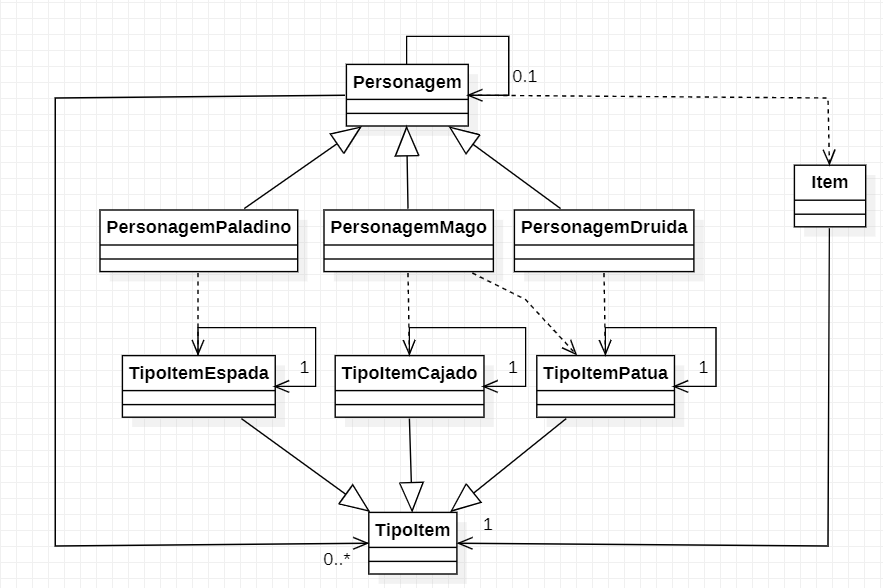
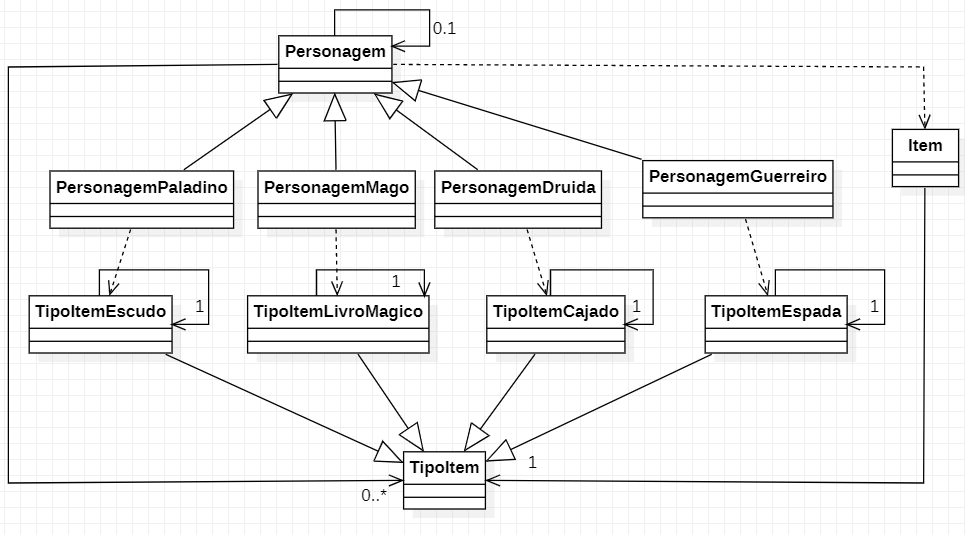
2
atualizacoes

diff --git a/src/test/java/ItemTest.java b/src/test/java/ItemTest.java
@@ -12,71 +12,96 @@ public class ItemTest {
     @BeforeEach
     void setUp() {
         druida = new PersonagemDruida(null);
-        guerreiro = new PersonagemGuerreiro(paladino);
         mago = new PersonagemMago(druida);
-        paladino = new PesonagemPaladino(guerreiro);
+        paladino = new PesonagemPaladino(mago);
+        guerreiro = new PersonagemGuerreiro(paladino);
     }
 
+    // Paladino
     @Test
-    void paladinoNeedEspada() {
-        assertEquals("Você pode pedir esse tipo de item",
-                paladino.needItem(new Item(TipoItemEspada.getTipoItemEspada())));
+    void paladinoEquiparEscudo(){
+        assertEquals("Paladino equipou o item: Escudo",
+            paladino.equiparItem(new Item(TipoItemEscudo.getTipoItemEscudo())));
     }
     @Test
-    void paladinoNeedCajado(){
-        assertEquals("Você não pode pedir esse tipo de item",
-                paladino.needItem(new Item(TipoItemCajado.getTipoItemCajado())));
+    void paladinoEquiparCajado(){
+        assertEquals("Druida equipou o item: Cajado",
+                paladino.equiparItem(new Item(TipoItemCajado.getTipoItemCajado())));
     }
     @Test
-    void paladinoNeedPatua(){
-        assertEquals("Você não pode pedir esse tipo de item",
-                paladino.needItem(new Item(TipoItemPatua.getTipoItemPatua())));
+    void paladinoEquiparLivroMagico(){
+        assertEquals("Mago equipou o item: Livro de magia",
+                paladino.equiparItem(new Item(TipoItemLivroMagico.getTipoItemLivroMagico())));
     }
     @Test
-    void guerreiroNeedEspada(){
-        assertEquals("Você pode pedir esse tipo de item",
-                guerreiro.needItem(new Item(TipoItemEspada.getTipoItemEspada())));
-    }
-    @Test
-    void guerreiroNeedCajado(){
-        assertEquals("Você não pode pedir esse tipo de item",
-                guerreiro.needItem(new Item(TipoItemCajado.getTipoItemCajado())));
-    }
-    @Test
-    void guerreiroNeedPatua(){
-        assertEquals("Você não pode pedir esse tipo de item",
-                guerreiro.needItem(new Item(TipoItemPatua.getTipoItemPatua())));
+    void paladinoEquiparEspada() {
+        assertEquals("Você não pode equipar esse tipo de item",
+                paladino.equiparItem(new Item(TipoItemEspada.getTipoItemEspada())));
     }
 
+    // Guerreiro
     @Test
-    void druidaNeedEspada(){
-        assertEquals("Você não pode pedir esse tipo de item",
-                druida.needItem(new Item(TipoItemEspada.getTipoItemEspada())));
+    void guerreiroEquiparEspada(){
+        assertEquals("Guerreiro equipou o item: Espada",
+                guerreiro.equiparItem(new Item(TipoItemEspada.getTipoItemEspada())));
     }
     @Test
-    void druidaNeedCajado(){
-        assertEquals("Você não pode pedir esse tipo de item",
-                druida.needItem(new Item(TipoItemCajado.getTipoItemCajado())));
+    void guerreiroEquiparCajado(){
+        assertEquals("Druida equipou o item: Cajado",
+                guerreiro.equiparItem(new Item(TipoItemCajado.getTipoItemCajado())));
     }
     @Test
-    void druidaNeedPatua(){
-        assertEquals("Você pode pedir esse tipo de item",
-                druida.needItem(new Item(TipoItemPatua.getTipoItemPatua())));
+    void guerreiroEquiparLivroMagico(){
+        assertEquals("Mago equipou o item: Livro de magia",
+                guerreiro.equiparItem(new Item(TipoItemLivroMagico.getTipoItemLivroMagico())));
     }
     @Test
-    void magoNeedEspada(){
-        assertEquals("Você não pode pedir esse tipo de item",
-                mago.needItem(new Item(TipoItemEspada.getTipoItemEspada())));
-    }
-    @Test
-    void magoNeedPatua(){
-        assertEquals("Você pode pedir esse tipo de item",
-                mago.needItem(new Item(TipoItemPatua.getTipoItemPatua())));
-    }
-    @Test
-    void magoNeedCajado(){
-        assertEquals("Você pode pedir esse tipo de item",
-                mago.needItem(new Item(TipoItemCajado.getTipoItemCajado())));
+    void guerreiroEquiparEscudo(){
+        assertEquals("Paladino equipou o item: Escudo",
+                guerreiro.equiparItem(new Item(TipoItemEscudo.getTipoItemEscudo())));
     }
 
+    // Druida
+    @Test
+    void druidaEquiparCajado(){
+        assertEquals("Druida equipou o item: Cajado",
+                druida.equiparItem(new Item(TipoItemCajado.getTipoItemCajado())));
+    }
+    @Test
+    void druidaEquiparEspada(){
+        assertEquals("Você não pode equipar esse tipo de item",
+                druida.equiparItem(new Item(TipoItemEspada.getTipoItemEspada())));
+    }
+    @Test
+    void druidaEquiparLivroMagico(){
+        assertEquals("Você não pode equipar esse tipo de item",
+                druida.equiparItem(new Item(TipoItemLivroMagico.getTipoItemLivroMagico())));
+    }
+    @Test
+    void druidaEquiparEscudo(){
+        assertEquals("Você não pode equipar esse tipo de item",
+                druida.equiparItem(new Item(TipoItemEscudo.getTipoItemEscudo())));
+    }
+
+    // Mago
+    @Test
+    void magoEquiparLivroMagico(){
+        assertEquals("Mago equipou o item: Livro de magia",
+                mago.equiparItem(new Item(TipoItemLivroMagico.getTipoItemLivroMagico())));
+    }
+    @Test
+    void magoEquiparCajado(){
+        assertEquals("Druida equipou o item: Cajado",
+                mago.equiparItem(new Item(TipoItemCajado.getTipoItemCajado())));
+    }
+    @Test
+    void magoEquiparEspada(){
+        assertEquals("Você não pode equipar esse tipo de item",
+                mago.equiparItem(new Item(TipoItemEspada.getTipoItemEspada())));
+    }
+    @Test
+    void magoEquiparEscudo(){
+        assertEquals("Você não pode equipar esse tipo de item",
+                druida.equiparItem(new Item(TipoItemEscudo.getTipoItemEscudo())));
+    }
 }

diff --git a/src/main/java/Personagem.java b/src/main/java/Personagem.java
@@ -12,18 +12,18 @@ public abstract class Personagem {
         this.lider = lider;
     }
 
-    public abstract String getDescricaoClasse();
+    public abstract String getMensagem(Item item);
 
-    public String needItem(Item item){
+    public String equiparItem(Item item){
         if (listaItens.contains(item.getTipoItem())){
-            return getDescricaoClasse();
+            return getMensagem(item);
         }
         else {
             if (lider != null){
-                return lider.needItem(item);
+                return lider.equiparItem(item);
             }
             else {
-                return "Você não pode pedir esse tipo de item";
+                return "Você não pode equipar esse tipo de item";
             }
         }
     }

diff --git a/src/main/java/PersonagemMago.java b/src/main/java/PersonagemMago.java
@@ -1,10 +1,10 @@
 public class PersonagemMago extends Personagem{
     public PersonagemMago(Personagem lider){
-        listaItens.add(TipoItemCajado.getTipoItemCajado());
+        listaItens.add(TipoItemLivroMagico.getTipoItemLivroMagico());
         setPersonagemLider(lider);
 
     }
-    public String getDescricaoClasse(){
-        return "Você pode pedir esse tipo de item";
+    public String getMensagem(Item item){
+        return "Mago equipou o item: " + item.getTipoItem();
     }
 }

diff --git a/src/main/java/PesonagemPaladino.java b/src/main/java/PesonagemPaladino.java
@@ -1,9 +1,9 @@
 public class PesonagemPaladino extends Personagem{
     public PesonagemPaladino (Personagem lider){
-        listaItens.add(TipoItemEspada.getTipoItemEspada());
+        listaItens.add(TipoItemEscudo.getTipoItemEscudo());
         setPersonagemLider(lider);
     }
-    public String getDescricaoClasse(){
-        return "Você pode pedir esse tipo de item";
+    public String getMensagem(Item item){
+        return "Paladino equipou o item: " + item.getTipoItem();
     }
 }

diff --git a/src/main/java/PersonagemDruida.java b/src/main/java/PersonagemDruida.java
@@ -1,9 +1,9 @@
 public class PersonagemDruida extends Personagem{
     public PersonagemDruida(Personagem lider){
-        listaItens.add(TipoItemPatua.getTipoItemPatua());
+        listaItens.add(TipoItemCajado.getTipoItemCajado());
         setPersonagemLider(lider);
     }
-    public String getDescricaoClasse(){
-        return "Você pode pedir esse tipo de item";
+    public String getMensagem(Item item){
+        return "Druida equipou o item: " + item.getTipoItem();
     }
 }

diff --git a/src/main/java/TipoItemLivroMagico.java b/src/main/java/TipoItemLivroMagico.java
@@ -1,0 +1,12 @@
+public class TipoItemLivroMagico implements TipoItem{
+    private static TipoItemLivroMagico tipoItemLivroMagico = new TipoItemLivroMagico();
+    private TipoItemLivroMagico(){};
+    public static TipoItemLivroMagico getTipoItemLivroMagico(){
+        return tipoItemLivroMagico;
+    }
+
+    @Override
+    public String toString() {
+        return "Livro de magia";
+    }
+}

diff --git a/src/main/java/TipoItemEscudo.java b/src/main/java/TipoItemEscudo.java
@@ -1,0 +1,14 @@
+public class TipoItemEscudo implements TipoItem{
+    private static TipoItemEscudo tipoItemEscudo = new TipoItemEscudo();
+    private TipoItemEscudo(){};
+    public static TipoItemEscudo getTipoItemEscudo(){
+        return tipoItemEscudo;
+    }
+    @Override
+    public String toString() {
+        return "Escudo";
+    }
+}
+
+
+

diff --git a/src/main/java/PersonagemGuerreiro.java b/src/main/java/PersonagemGuerreiro.java
@@ -4,7 +4,7 @@ public class PersonagemGuerreiro extends Personagem {
         setPersonagemLider(lider);
 
     }
-    public String getDescricaoClasse(){
-        return "Você pode pedir esse tipo de item";
+    public String getMensagem(Item item){
+        return "Guerreiro equipou o item: " + item.getTipoItem();
     }
 }

diff --git a/src/main/java/TipoItemCajado.java b/src/main/java/TipoItemCajado.java
@@ -4,4 +4,9 @@ public class TipoItemCajado implements TipoItem{
     public static TipoItemCajado getTipoItemCajado(){
         return tipoItemCajado;
     }
+
+    @Override
+    public String toString() {
+        return "Cajado";
+    }
 }

diff --git a/src/main/java/TipoItemEspada.java b/src/main/java/TipoItemEspada.java
@@ -4,4 +4,8 @@ public class TipoItemEspada implements TipoItem{
     public static TipoItemEspada getTipoItemEspada() {
         return tipoItemEspada;
     }
+    @Override
+    public String toString() {
+        return "Espada";
+    }
 }

diff --git a/src/main/java/Item.java b/src/main/java/Item.java
@@ -8,7 +8,6 @@ public class Item {
     public TipoItem getTipoItem(){
         return tipoItem;
     }
-
     public void setTipoItem(TipoItem tipoItem){
         this.tipoItem = tipoItem;
     }
